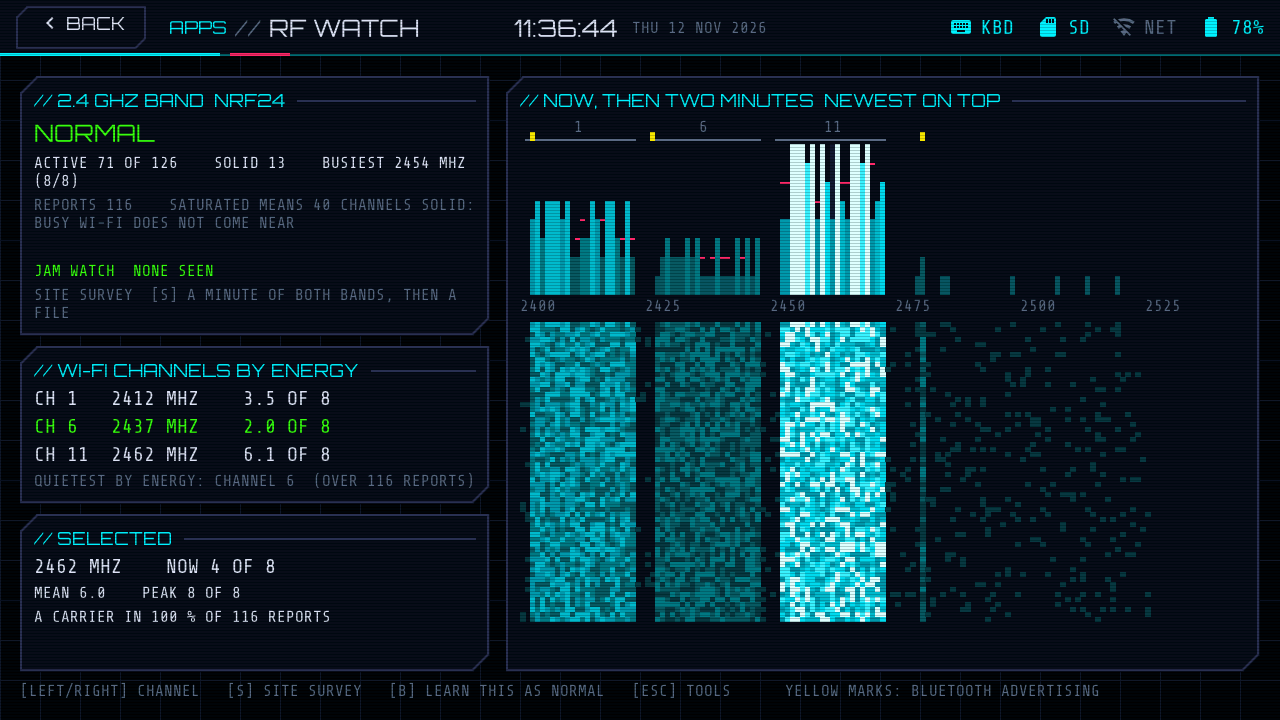
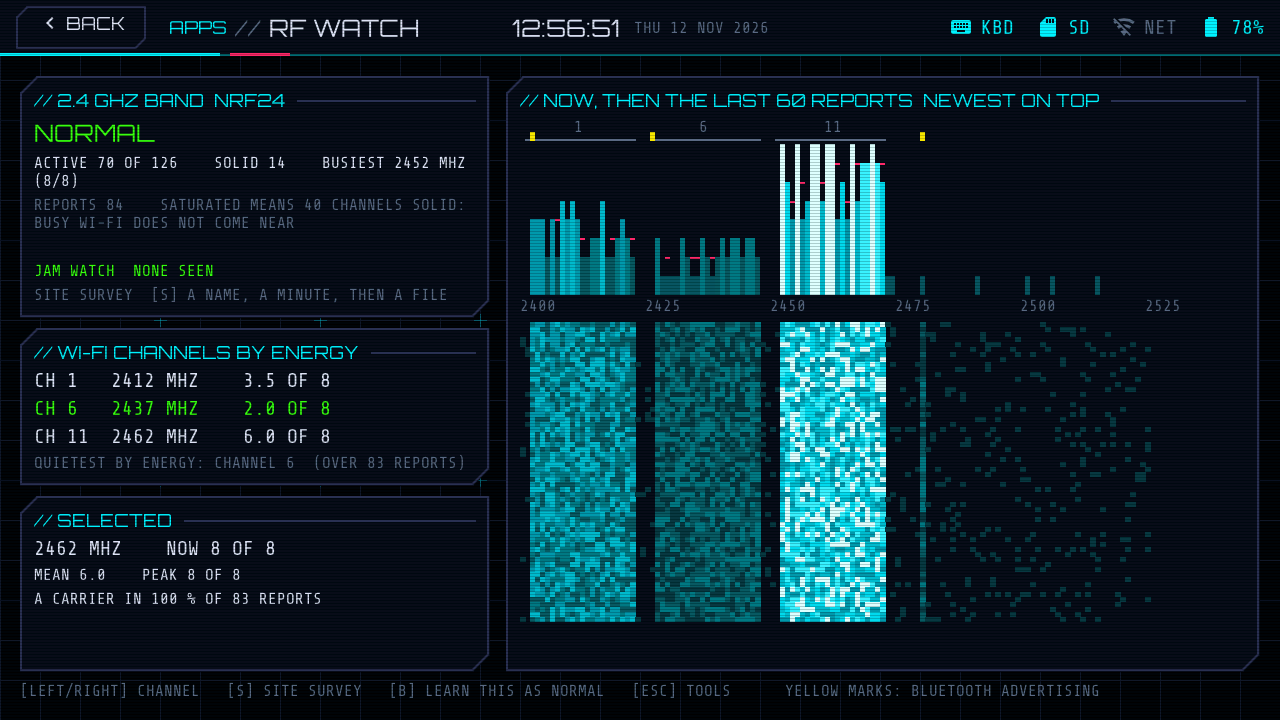
RF WATCH: a site survey asks what the place is called
S on SUB-GHZ and 2.4 GHZ now opens a prompt before the survey. Enter with
a name starts the minute with it, Enter on an empty box starts one
without, Esc starts nothing. The name goes in the file's first row as a
new last column, site, and in the file's name as letters, digits and
dashes: sentinel/site-20261112-150405-kitchen.csv. A survey indoors has
no position, so until now two rooms could only be told apart by time.

The rules for the name are in sentinel_core (rf-sentinel 9c1454f). The
screen shows the name while the survey runs, and the idle line now fits
on one line. Checked on the Tab5: the long file name is written and read
back from the card.

Screenshots of both tools redone for the new line.

diff --git a/sim/store_test.c b/sim/store_test.c
@@ -219,10 +219,10 @@ int main(void)
     sentinel_bandhost_init(&band, 1000);
     for (int i = 0; i < SENTINEL_SUB_CH; i++) band.sub_stat[i] = (sentinel_substat_t){.n = 40, .busy = i == 9 ? 4 : 0, .floor = -106, .peak = (int8_t)(i == 9 ? -61 : -97), .sum = -4160.0f};
     for (int i = 0; i < SENTINEL_NRF_CH; i++) band.nrf_stat[i] = (sentinel_nrfstat_t){.n = 10, .any = i == 62 ? 9 : 0, .sum = i == 62 ? 72 : 0, .peak = (uint8_t)(i == 62 ? 8 : 0)};
-    char site[40];
+    char site[SENTINEL_SITE_NAME_MAX];
     sentinel_where_t where = {.lat = 40.741895, .lon = -73.989308};
-    CHECK(sentinel_store_site(&band, "2026-11-12T15:04:05Z", &where, 61000, site, sizeof(site)));
-    CHECK(strncmp(site, "site-", 5) == 0 && strstr(site, ".csv"));
+    CHECK(sentinel_store_site(&band, "2026-11-12T15:04:05Z", &where, NULL, 61000, site, sizeof(site)));
+    CHECK(strncmp(site, "site-", 5) == 0 && strlen(site) == 24 && strcmp(site + 20, ".csv") == 0); /* no name: the time alone */
     char site_path[400];
     snprintf(site_path, sizeof(site_path), "%s/sentinel/%s", root, site);
     FILE *sf = fopen(site_path, "r");
@@ -232,8 +232,8 @@ int main(void)
         int  lines = 0, sub_rows = 0, nrf_rows = 0;
         while (fgets(line, sizeof(line), sf)) {
             lines++;
-            if (lines == 1) CHECK(strcmp(line, "time,lat,lon,seconds,sub_sweeps,nrf_reports\n") == 0);
-            if (lines == 2) CHECK(strcmp(line, "2026-11-12T15:04:05Z,40.741895,-73.989308,60,40,10\n") == 0);
+            if (lines == 1) CHECK(strcmp(line, "time,lat,lon,seconds,sub_sweeps,nrf_reports,site\n") == 0);
+            if (lines == 2) CHECK(strcmp(line, "2026-11-12T15:04:05Z,40.741895,-73.989308,60,40,10,\n") == 0);
             if (lines == 3) CHECK(strcmp(line, "band,mhz,floor,mean,peak,busy_pct\n") == 0);
             if (!strncmp(line, "433,", 4)) sub_rows++;
             if (!strncmp(line, "2400,", 5)) nrf_rows++;
@@ -243,12 +243,35 @@ int main(void)
         fclose(sf);
         CHECK(lines == 3 + SENTINEL_SUB_CH + SENTINEL_NRF_CH && sub_rows == SENTINEL_SUB_CH && nrf_rows == SENTINEL_NRF_CH);
     }
+    /* A survey with a name: the name is in the first row as it was typed
+     * (less what a CSV field cannot hold) and in the file's name as letters,
+     * digits and dashes, so two rooms are two files a listing can tell apart. */
+    char named[SENTINEL_SITE_NAME_MAX];
+    CHECK(sentinel_store_site(&band, "2026-11-12T15:04:05Z", NULL, " Kitchen, by the window ", 61000, named, sizeof(named)));
+    CHECK(strncmp(named, site, 20) == 0 && strcmp(named + 20, "-kitchen-by-the-window.csv") == 0);
+    snprintf(site_path, sizeof(site_path), "%s/sentinel/%s", root, named);
+    sf = fopen(site_path, "r");
+    CHECK(sf != NULL);
+    if (sf) {
+        char line[SENTINEL_SITE_LINE_MAX];
+        CHECK(fgets(line, sizeof(line), sf) && fgets(line, sizeof(line), sf) &&
+              strcmp(line, "2026-11-12T15:04:05Z,,,60,40,10,Kitchen by the window\n") == 0);
+        fclose(sf);
+    }
+    snprintf(site_path, sizeof(site_path), "%s/sentinel/%s", root, site);
+    CHECK(access(site_path, F_OK) == 0); /* the unnamed one is still there */
+    /* A name that is a path stays a name. */
+    CHECK(sentinel_store_site(&band, "2026-11-12T15:04:05Z", NULL, "../../up", 61000, named, sizeof(named)));
+    CHECK(strcmp(named + 20, "-up.csv") == 0 && !strchr(named, '/') && !strstr(named, ".."));
+    snprintf(site_path, sizeof(site_path), "%s/sentinel/%s", root, named);
+    CHECK(access(site_path, F_OK) == 0);
+
     /* Nothing swept on either band (no link for the whole minute): there is no survey to write. */
     static sentinel_bandhost_t empty;
     sentinel_bandhost_init(&empty, 1000);
-    CHECK(!sentinel_store_site(&empty, "2026-11-12T15:04:05Z", NULL, 61000, site, sizeof(site)));
+    CHECK(!sentinel_store_site(&empty, "2026-11-12T15:04:05Z", NULL, "Kitchen", 61000, site, sizeof(site)));
     s_root = NULL; /* no storage at all: it says so */
-    CHECK(!sentinel_store_site(&band, "2026-11-12T15:04:05Z", NULL, 61000, site, sizeof(site)));
+    CHECK(!sentinel_store_site(&band, "2026-11-12T15:04:05Z", NULL, "Kitchen", 61000, site, sizeof(site)));
     s_root = root;
 
     snprintf(cmd, sizeof(cmd), "rm -rf %s", root);

diff --git a/apps/app_rf/rf_bands.c b/apps/app_rf/rf_bands.c
@@ -16,9 +16,10 @@
  *             sit, and which of the three carries the least.
  *
  * The history, the statistics and the jam watch live in the driver and run
- * whatever is on screen (deck_sentinel.h); this file draws a copy. S runs a
- * site survey (a minute of both bands, then a file), B tells the node that
- * what it hears now is normal.
+ * whatever is on screen (deck_sentinel.h); this file draws a copy. S asks
+ * what the place is called and runs a site survey (a minute of both bands,
+ * then a file with that name in it), B tells the node that what it hears
+ * now is normal.
  */
 #include "rf_ui.h"
 
@@ -26,6 +27,7 @@
 #include <string.h>
 
 #include "deck_attr.h"
+#include "deck_modal.h"
 #include "deck_theme.h"
 #include "deck_widgets.h"
 
@@ -51,7 +53,8 @@ static struct {
     uint32_t    khz;       /* where BURSTS listens */
     bool        surveying, site_failed;
     uint32_t    survey_end_ms, learn_ms;
-    char        site_file[32];
+    char        site_file[SENTINEL_SITE_NAME_MAX];
+    char        site_tag[SENTINEL_SITE_TAG_MAX]; /* what the place being surveyed is called; "" for nothing */
     sentinel_state_t    st;
     sentinel_bandhost_t b;
 } s_bd DECK_PSRAM_BSS;
@@ -171,13 +174,15 @@ static void jam_and_site_lines(void)
     if (s_bd.learn_ms && now - s_bd.learn_ms < 4000) {
         lv_label_set_text(s_bd.site, "THE NODE IS LEARNING BOTH BANDS AGAIN (ABOUT 40 S)");
     } else if (s_bd.surveying) {
-        lv_label_set_text_fmt(s_bd.site, "SITE SURVEY  %u S LEFT", (unsigned)((s_bd.survey_end_ms - now + 999) / 1000));
+        unsigned left = (unsigned)((s_bd.survey_end_ms - now + 999) / 1000);
+        if (s_bd.site_tag[0]) lv_label_set_text_fmt(s_bd.site, "SITE SURVEY  \"%s\"  %u S LEFT", s_bd.site_tag, left);
+        else lv_label_set_text_fmt(s_bd.site, "SITE SURVEY  %u S LEFT", left);
     } else if (s_bd.site_failed) {
         lv_label_set_text(s_bd.site, "SITE SURVEY  NOTHING WRITTEN (NO SWEEPS, OR NO STORAGE)");
     } else if (s_bd.site_file[0]) {
         lv_label_set_text_fmt(s_bd.site, "SITE SURVEY  WRITTEN: sentinel/%s", s_bd.site_file);
     } else {
-        lv_label_set_text(s_bd.site, "SITE SURVEY  [S] A MINUTE OF BOTH BANDS, THEN A FILE");
+        lv_label_set_text(s_bd.site, "SITE SURVEY  [S] A NAME, A MINUTE, THEN A FILE");
     }
 }
 
@@ -346,7 +351,7 @@ static void tick(lv_timer_t *t)
     (void)t;
     if (s_bd.surveying && (int32_t)(sentinel_now_ms() - s_bd.survey_end_ms) >= 0) {
         s_bd.surveying   = false;
-        s_bd.site_failed = !sentinel_site_write(s_bd.site_file, sizeof(s_bd.site_file));
+        s_bd.site_failed = !sentinel_site_write(s_bd.site_tag, s_bd.site_file, sizeof(s_bd.site_file));
     }
     render();
 }
@@ -488,6 +493,22 @@ static void destroy(void)
     sentinel_band_listen(0); /* the CC1101 goes back to sweeping */
 }
 
+/* The survey starts when the place has its name: Enter on an empty box is a
+ * survey without one, Esc is no survey. The minute is counted from here, not
+ * from the S, so the typing is not part of what was measured. */
+static void site_named(const char *text, void *user)
+{
+    (void)user;
+    if (!text || !s_bd.timer || s_bd.surveying) return; /* cancelled, or the screen went while the dialog was up */
+    sentinel_site_tag(s_bd.site_tag, sizeof(s_bd.site_tag), text);
+    sentinel_site_begin();
+    s_bd.surveying     = true;
+    s_bd.site_failed   = false;
+    s_bd.site_file[0]  = 0;
+    s_bd.survey_end_ms = sentinel_now_ms() + SURVEY_MS;
+    render();
+}
+
 static bool key(const deck_key_t *k)
 {
     if (!s_bd.timer || (k->mods & (DECK_MOD_CTRL | DECK_MOD_ALT))) return false;
@@ -518,14 +539,7 @@ static bool key(const deck_key_t *k)
         return true;
     }
     if (k->code == HID_LETTER('S')) {
-        if (!s_bd.surveying) {
-            sentinel_site_begin();
-            s_bd.surveying     = true;
-            s_bd.site_failed   = false;
-            s_bd.site_file[0]  = 0;
-            s_bd.survey_end_ms = sentinel_now_ms() + SURVEY_MS;
-        }
-        render();
+        if (!s_bd.surveying) deck_modal_prompt("SITE NAME (ENTER FOR NONE, ESC CANCELS)", "", site_named, NULL);
         return true;
     }
     if (k->code == HID_LETTER('B')) {

diff --git a/components/deck_sentinel/sentinel_store.c b/components/deck_sentinel/sentinel_store.c
@@ -281,20 +281,20 @@ void sentinel_store_drive_close(void)
     s_stats.drive_open = false;
 }
 
-bool sentinel_store_site(const sentinel_bandhost_t *h, const char *time_text, const sentinel_where_t *w, uint32_t now_ms,
-                         char *name, size_t name_n)
+bool sentinel_store_site(const sentinel_bandhost_t *h, const char *time_text, const sentinel_where_t *w, const char *tag,
+                         uint32_t now_ms, char *name, size_t name_n)
 {
-    char      dir[DIR_MAX], file[32], path[PATH_MAX_], line[SENTINEL_SITE_LINE_MAX];
+    char      dir[DIR_MAX], file[SENTINEL_SITE_NAME_MAX], path[PATH_MAX_], line[SENTINEL_SITE_LINE_MAX];
     struct tm t;
     time_t    now = time(NULL);
     localtime_r(&now, &t);
     if (h->sub_stat[0].n == 0 && h->nrf_stat[0].n == 0) return false; /* nothing was swept: there is no survey */
-    if (!store_dir(dir, sizeof(dir)) || !sentinel_log_drive_name(file, sizeof(file), "site", &t)) return false;
+    if (!store_dir(dir, sizeof(dir)) || !sentinel_site_name(file, sizeof(file), &t, tag)) return false;
     snprintf(path, sizeof(path), "%s/%s", dir, file);
     FILE *f = fopen(path, "w");
     if (!f) return false;
-    bool ok  = fputs("time,lat,lon,seconds,sub_sweeps,nrf_reports\n", f) >= 0;
-    int  len = sentinel_site_head(line, sizeof(line), h, time_text, w, now_ms);
+    bool ok  = fputs("time,lat,lon,seconds,sub_sweeps,nrf_reports,site\n", f) >= 0;
+    int  len = sentinel_site_head(line, sizeof(line), h, time_text, w, tag, now_ms);
     ok       = ok && len > 0 && fwrite(line, 1, (size_t)len, f) == (size_t)len;
     ok       = ok && fputs("band,mhz,floor,mean,peak,busy_pct\n", f) >= 0;
     for (int i = 0; ok && i < SENTINEL_SUB_CH; i++) {
@@ -314,7 +314,8 @@ bool sentinel_store_site(const sentinel_bandhost_t *h, const char *time_text, co
     return true;
 }
 
-bool sentinel_store_site_from(const sentinel_bandhost_t *h, const sentinel_state_t *s, uint32_t now_ms, char *name, size_t name_n)
+bool sentinel_store_site_from(const sentinel_bandhost_t *h, const sentinel_state_t *s, const char *tag, uint32_t now_ms, char *name,
+                              size_t name_n)
 {
     sentinel_where_t w;
     char             text[32];
@@ -328,5 +329,5 @@ bool sentinel_store_site_from(const sentinel_bandhost_t *h, const sentinel_state
         gmtime_r(&now, &t);
         strftime(text, sizeof(text), "%Y-%m-%dT%H:%M:%SZ", &t);
     }
-    return sentinel_store_site(h, text, placed ? &w : NULL, now_ms, name, name_n);
+    return sentinel_store_site(h, text, placed ? &w : NULL, tag, now_ms, name, name_n);
 }

diff --git a/components/deck_sentinel/include/sentinel_store.h b/components/deck_sentinel/include/sentinel_store.h
@@ -16,7 +16,7 @@
  *                                  card every few seconds so a power cut
  *                                  costs seconds, not the drive. SD only.
  *
- *   site-YYYYMMDD-HHMMSS.csv       a site survey: every channel of the two
+ *   site-YYYYMMDD-HHMMSS[-name].csv  a site survey: every channel of the two
  *                                  swept bands over a minute. Written whole
  *                                  in one call; SD card or internal flash.
  *
@@ -63,17 +63,20 @@ void sentinel_store_drive_row(sentinel_drive_file_t which, const char *row, size
 void sentinel_store_drive_close(void);
 
 /* Write a site survey file from the band statistics (sentinel_bandhost.h)
- * and put its name in `name`. Unlike the rest of this file it keeps nothing
+ * and put its name in `name` (SENTINEL_SITE_NAME_MAX holds any). `tag` is
+ * what the place is called, NULL or "" for nothing: it goes in the first
+ * row and, as letters, digits and dashes, in the file's name. Unlike the rest of this file it keeps nothing
  * between calls, so it may be called from any task; it blocks for as long as
  * 150 short lines take to write. False with no storage, a failed write, or
  * nothing swept on either band. A band with nothing swept has blank rows. */
-bool sentinel_store_site(const sentinel_bandhost_t *h, const char *time_text, const sentinel_where_t *w, uint32_t now_ms,
-                         char *name, size_t name_n);
+bool sentinel_store_site(const sentinel_bandhost_t *h, const char *time_text, const sentinel_where_t *w, const char *tag,
+                         uint32_t now_ms, char *name, size_t name_n);
 
 /* The same, with the time and place taken from the node's state: GPS time
  * and position when there is a fix, the deck's own clock and no position
  * when there is not. */
-bool sentinel_store_site_from(const sentinel_bandhost_t *h, const sentinel_state_t *s, uint32_t now_ms, char *name, size_t name_n);
+bool sentinel_store_site_from(const sentinel_bandhost_t *h, const sentinel_state_t *s, const char *tag, uint32_t now_ms, char *name,
+                              size_t name_n);
 
 /* The end of today's events file, starting at the beginning of a row, as a
  * NUL-terminated string of at most n - 1 bytes (the header row is included

diff --git a/components/deck_sentinel/sentinel_tab5.c b/components/deck_sentinel/sentinel_tab5.c
@@ -565,7 +565,7 @@ void sentinel_site_begin(void)
 }
 
 /* LVGL task. The copy is taken under the lock; the file is written outside it. */
-bool sentinel_site_write(char *name, size_t n)
+bool sentinel_site_write(const char *tag, char *name, size_t n)
 {
     static sentinel_state_t st;
     if (!s_lock) return false;
@@ -573,9 +573,9 @@ bool sentinel_site_write(char *name, size_t n)
     memcpy(&s_band_site, &s_band, sizeof(s_band_site));
     memcpy(&st, &s_state, sizeof(st));
     xSemaphoreGive(s_lock);
-    if (!sentinel_store_site_from(&s_band_site, &st, sentinel_now_ms(), name, n)) return false;
+    if (!sentinel_store_site_from(&s_band_site, &st, tag, sentinel_now_ms(), name, n)) return false;
     char note[64];
-    snprintf(note, sizeof(note), "site survey written: %.31s", name);
+    snprintf(note, sizeof(note), "site survey: %.49s", name); /* the longest name, and an event's 63 characters */
     sentinel_note(false, note);
     return true;
 }

diff --git a/sim/sentinel_sim.c b/sim/sentinel_sim.c
@@ -591,12 +591,12 @@ void sentinel_band_listen(uint32_t khz)
     if (s_host.want_dwell_khz && s_host.want_dwell_khz != was) sentinel_bursthost_init(&s_band.bursts);
 }
 void sentinel_site_begin(void) { sentinel_bandhost_stats_reset(&s_band, sentinel_now_ms()); }
-bool sentinel_site_write(char *name, size_t n)
+bool sentinel_site_write(const char *tag, char *name, size_t n)
 {
     memcpy(&s_band_site, &s_band, sizeof(s_band_site));
-    if (!sentinel_store_site_from(&s_band_site, &s_state, sentinel_now_ms(), name, n)) return false;
+    if (!sentinel_store_site_from(&s_band_site, &s_state, tag, sentinel_now_ms(), name, n)) return false;
     char note[64];
-    snprintf(note, sizeof(note), "site survey written: %.31s", name);
+    snprintf(note, sizeof(note), "site survey: %.49s", name); /* the longest name, and an event's 63 characters */
     sentinel_note(false, note);
     return true;
 }

diff --git a/components/deck_sentinel/include/deck_sentinel.h b/components/deck_sentinel/include/deck_sentinel.h
@@ -125,10 +125,12 @@ void sentinel_band_learn(void);
  * 433 MHz sweep and no 433 MHz alert. */
 void sentinel_band_listen(uint32_t khz);
 /* A site survey: begin starts every channel's statistics again; write puts
- * them in sentinel/site-<time>.csv and gives the file's name. The caller
- * decides how long a survey is. Write blocks for a few hundred milliseconds. */
+ * them in sentinel/site-<time>.csv, or site-<time>-<tag>.csv when the place
+ * was given a name (`tag`, NULL or "" for none), and gives the file's name
+ * (SENTINEL_SITE_NAME_MAX holds any). The caller decides how long a survey
+ * is. Write blocks for a few hundred milliseconds. */
 void sentinel_site_begin(void);
-bool sentinel_site_write(char *name, size_t n);
+bool sentinel_site_write(const char *tag, char *name, size_t n);
 
 /* ---- Wardriving ---------------------------------------------------------- */
 

diff --git a/docs/superpowers/specs/2026-11-12-sentinel-suite-phase5-bands-design.md b/docs/superpowers/specs/2026-11-12-sentinel-suite-phase5-bands-design.md
@@ -31,7 +31,9 @@ In both tools:
 
 - `S` runs a **site survey**: 60 s of both bands, then
   `sentinel/site-<time>.csv` with every channel's floor, mean, peak and
-  busy share, and the position when there is a fix.
+  busy share, and the position when there is a fix. (Added after the
+  phase closed: `S` first asks what the place is called. See "The site's
+  name" below.)
 - `B` tells the node that what it hears now is normal here (it learns its
   baseline again).
 - A line says what the jam watch thinks.
@@ -149,6 +151,31 @@ Fixed on the way: the first sweep after boot reported +120 dBm on
 - `apps/app_rf/rf_bands.c`: both tools (they share the chart).
 - `sim/sentinel_sim.c`: a remote and a periodic sensor for BURSTS, and a
   jam scene that can be switched on for screenshots.
+
+## The site's name (added 2026-11-12, after the phase closed)
+
+A survey indoors has no position, so two files from two rooms could only be
+told apart by their times. `S` now opens a prompt first:
+
+- Enter with a name starts the survey with it; Enter on an empty box
+  starts one without; Esc starts nothing. The minute is counted from the
+  Enter, so the typing is not part of what was measured.
+- The name goes in the first row as a new last column, `site`, as typed
+  less what a CSV field cannot hold (commas, quotes, anything that is not
+  printable ASCII), 31 characters at most. It is last so that the columns
+  before it stay where they were; files written before this have six
+  columns and no name.
+- It also goes in the file's name, as lowercase letters, digits and
+  dashes, 24 characters at most: `site-20261112-150405-kitchen.csv`.
+  Nothing typed can leave the `sentinel` directory.
+- Both rules are in `sentinel_bandhost.h` (`sentinel_site_tag`,
+  `sentinel_site_name`) with host tests; the screen keeps no name between
+  surveys.
+- Checked on the Tab5 the same day: `Bench desk, by the "window"` typed at
+  the prompt gave `site-20261112-125844-bench-desk-by-the-window.csv` on
+  the card (so the long name is fine on its FAT file system), 150 lines,
+  with `Bench desk by the window` ending the first row. That file was
+  removed afterwards.
 
 ## Testing
 

diff --git a/README.md b/README.md
@@ -91,8 +91,11 @@ shapes, not contents; nothing is decoded. 2.4 GHZ draws the nRF24's view of
 2400 to 2525 MHz with its last sixty reports (about five minutes), marks where Wi-Fi channels 1,
 6 and 11 and the Bluetooth advertising channels sit, and says which of the
 three Wi-Fi channels carries the least energy. In both, `S` runs a site
-survey (a minute of both bands, then `sentinel/site-<time>.csv` with every
-channel's floor, mean, peak and busy share) and `B` tells the board that
+survey: it asks what the place is called (Enter alone for no name), then
+measures a minute of both bands and writes `sentinel/site-<time>.csv`, or
+`site-<time>-kitchen.csv` with a name, with every channel's floor, mean,
+peak and busy share. The name is also in the file's first row as you typed
+it, so a survey still says where it was taken when you read it later and `B` tells the board that
 what it hears now is normal here.
 
 The **jam watch** runs in the background in any app. The board warns once
